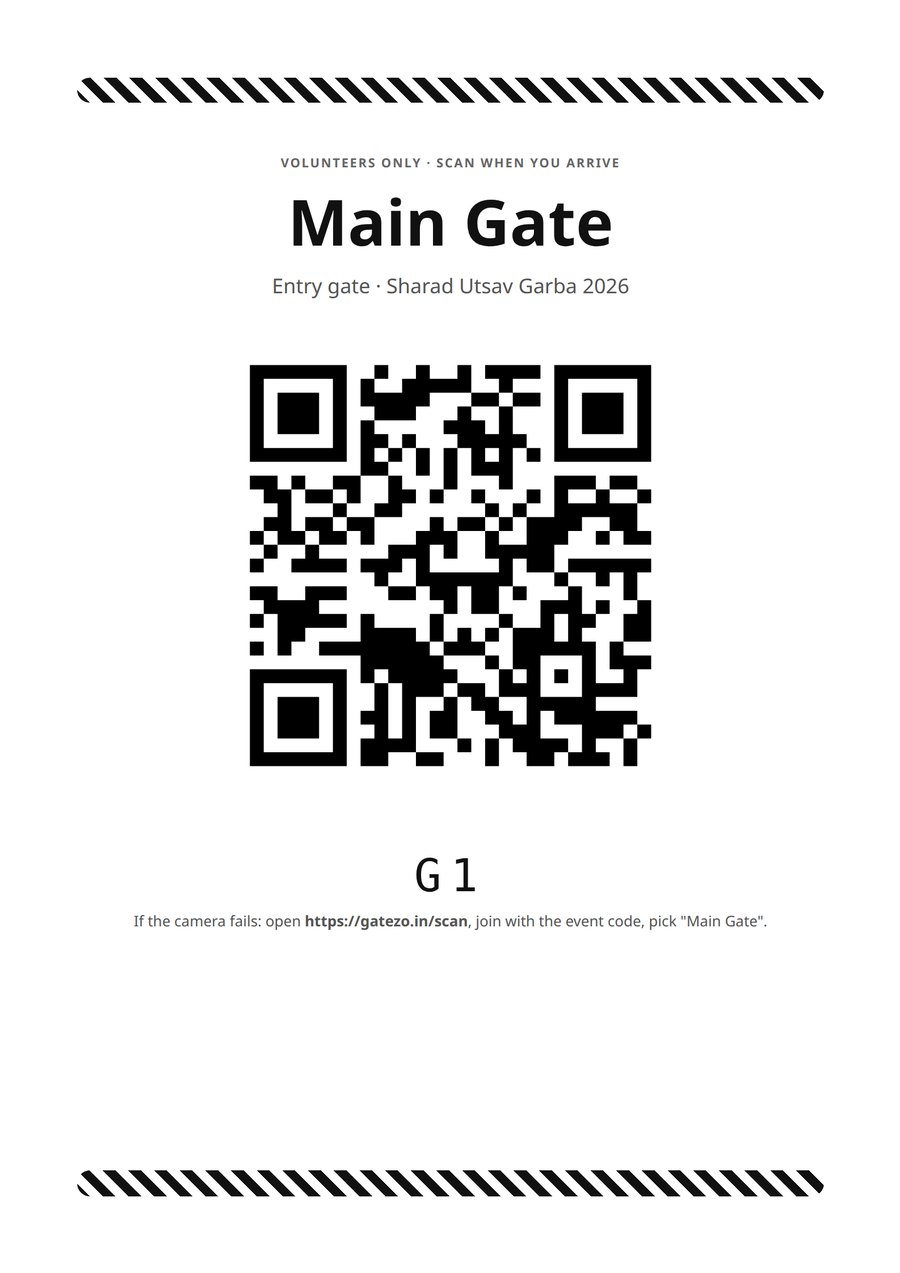
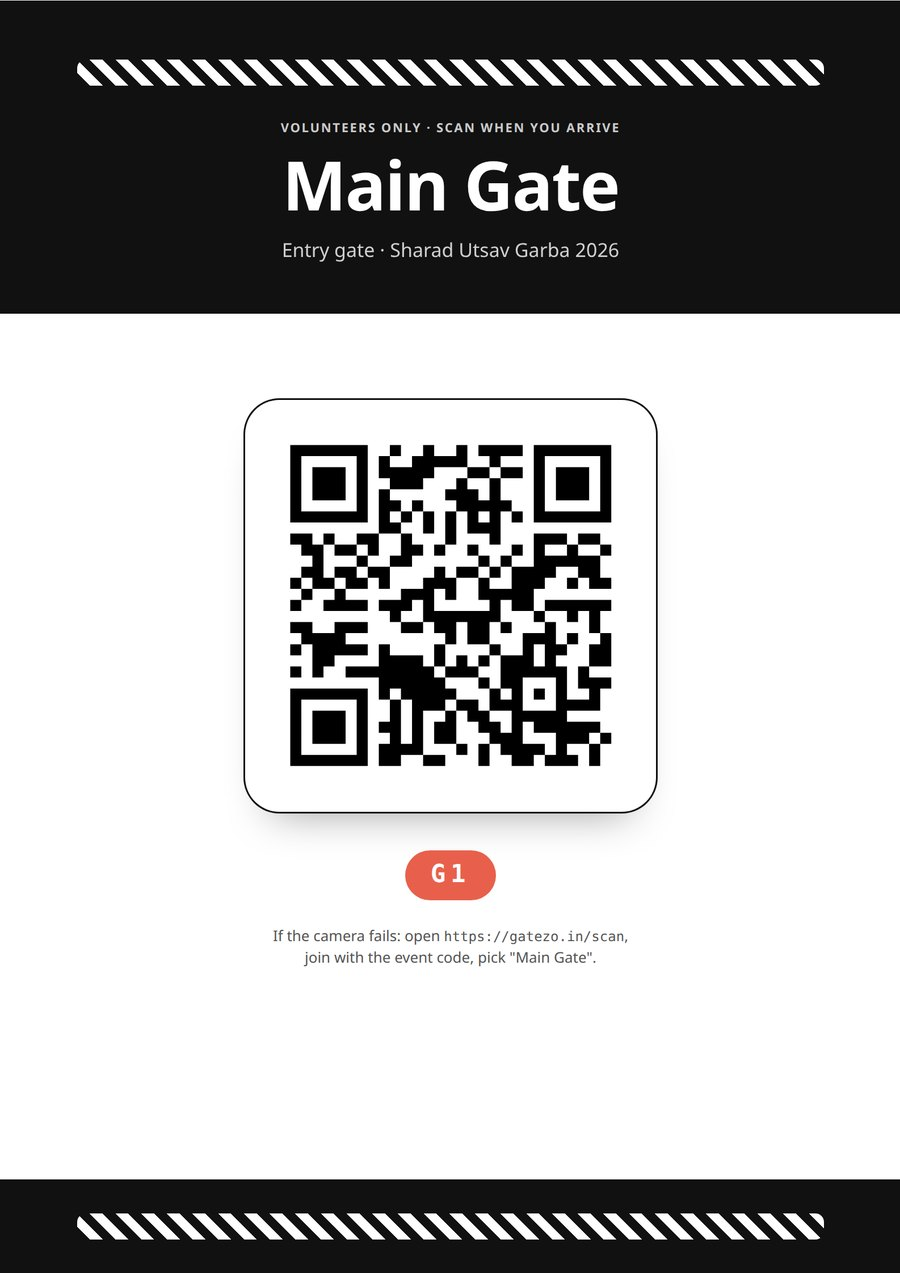
Print kit templates and a pass page that matches the hero
events.kit_style with three templates: classic (black on white), bold
(default: accent header and footer bands, rounded QR frames, logo) and
festival (full accent page with a white card and corner marks). Poster,
gate signs, stall and exit cards rebuilt around them. Settings → Look
picks the style. The phone pass page is now the landing hero's pass
card: accent header, QR, tinted name band, perforated foot, live mode
kept. Landing kit renders refreshed in Bold; render script counts gate
sheets by class.

diff --git a/resources/views/print/kit.blade.php b/resources/views/print/kit.blade.php
@@ -1,29 +1,145 @@
 @extends('layouts.print', ['title' => 'Print kit'])
+@php
+    $style = in_array($event->kit_style, ['classic', 'bold', 'festival'], true) ? $event->kit_style : 'bold';
+    $logo = $event->logo_url ? Illuminate\Support\Facades\Storage::url($event->logo_url) : null;
+    $when = $event->starts_at?->format('l, j F · g:i A');
+@endphp
+@push('head')
+<style>
+    /* ---- Kit templates. One body class switches the whole kit. Everything is CSS so a browser
+       print → PDF is the only pipeline; "Background graphics" must be on for bold/festival. ---- */
+    .kit .sheet { position: relative; overflow: hidden; }
+    .k-head { display: flex; flex-direction: column; align-items: center; text-align: center; }
+    .k-title { font-weight: 800; letter-spacing: -.02em; line-height: 1.02; }
+    .k-when { font-size: 17px; margin-top: 4mm; }
+    .k-qr { background: #fff; border-radius: 8mm; padding: 8mm; }
+    .k-qr svg { display: block; width: 100%; height: auto; }
+    .k-foot { margin-top: auto; display: flex; align-items: center; justify-content: space-between; gap: 6mm; }
+    .k-logo { max-height: 14mm; max-width: 50mm; object-fit: contain; }
+    .k-pill { display: inline-block; padding: 2.5mm 6mm; border-radius: 999px; font-weight: 700; font-size: 14px; }
+    .k-note { font-size: 13px; line-height: 1.4; }
+    .k-url { font-family: ui-monospace, Menlo, monospace; font-size: 12px; word-break: break-all; }
+    .k-vol { background: repeating-linear-gradient(45deg, #111 0 8px, #fff 8px 16px); height: 6mm; }
+    .k-corner { position: absolute; width: 10mm; height: 10mm; border: 2.5px solid currentColor; opacity: .5; }
+    .k-corner.tl { left: 10mm; top: 10mm; border-right: 0; border-bottom: 0; } .k-corner.tr { right: 10mm; top: 10mm; border-left: 0; border-bottom: 0; }
+    .k-corner.bl { left: 10mm; bottom: 10mm; border-right: 0; border-top: 0; } .k-corner.br { right: 10mm; bottom: 10mm; border-left: 0; border-top: 0; }
+
+    /* Classic: black on white, accent only as a thin rule. */
+    .kit-classic .k-band { border-top: 2mm solid var(--accent); border-bottom: 2mm solid var(--accent); padding: 8mm 0; }
+    .kit-classic .k-qr { border: 1.5px solid #111; }
+    .kit-classic .k-pill { border: 1.5px solid #111; }
+    .kit-classic .card { border: 1.5px dashed #999; }
+
+    /* Bold: accent header and footer bands, white body, rounded QR frame with a hairline. */
+    .kit-bold .sheet.poster, .kit-bold .sheet.gate { padding: 0; }
+    .kit-bold .k-band { background: var(--accent); color: #fff; padding: 14mm 18mm 12mm; }
+    .kit-bold .k-band.dark { background: #111; }
+    .kit-bold .k-band .kicker { color: rgba(255,255,255,.8); }
+    .kit-bold .k-body { padding: 12mm 18mm 0; display: flex; flex-direction: column; align-items: center; flex: 1; }
+    .kit-bold .k-qr { box-shadow: 0 0 0 1.5px #111, 0 6mm 10mm -6mm rgba(0,0,0,.4); }
+    .kit-bold .k-footband { background: #111; color: #fff; padding: 8mm 18mm; margin-top: auto; }
+    .kit-bold .k-pill { background: #111; color: #fff; }
+    .kit-bold .card { border: 0; box-shadow: 0 0 0 1.5px #ddd; border-top: 4mm solid var(--accent); }
+    .kit-bold .card.exit { border-top-color: #111; }
+
+    /* Festival: full accent page, white card floating on it, corner marks. */
+    .kit-festival .sheet.poster, .kit-festival .sheet.gate { background: var(--accent); padding: 16mm; color: #fff; }
+    .kit-festival .sheet.gate { background: #111; }
+    .kit-festival .k-card { background: #fff; color: #111; border-radius: 10mm; padding: 14mm 14mm 12mm; flex: 1; display: flex; flex-direction: column; align-items: center; text-align: center; }
+    .kit-festival .k-qr { box-shadow: 0 0 0 1.5px #111; }
+    .kit-festival .k-pill { background: var(--accent); color: #fff; }
+    .kit-festival .sheet.gate .k-pill { background: #111; }
+    .kit-festival .card { border: 0; background: #fff; box-shadow: 0 0 0 1.5px #ddd; }
+    .kit-festival .sheet.card-grid { background: var(--accent); padding: 12mm; }
+    .kit-festival .sheet.card-grid.exit { background: #111; }
+</style>
+@endpush
 @section('content')
+<div class="kit kit-{{ $style }}">
+
 {{-- 1. Registration poster (A4). Stick at the entrance, on the notice board, forward on WhatsApp. --}}
-<section class="sheet" style="align-items:center;text-align:center;justify-content:center">
-    <div class="stripe" style="width:100%"></div>
-    <div class="kicker" style="margin-top:12mm">Scan to get your entry pass</div>
-    <div class="title" style="font-size:44px">{{ $event->name }}</div>
-    @if ($event->starts_at)<div style="font-size:18px;color:#555">{{ $event->starts_at->format('l, j F · g:i A') }}@if($event->venue) · {{ $event->venue }}@endif</div>@endif
-    <div class="qr" style="width:120mm;margin:12mm 0">{!! $posterQr !!}</div>
-    <div style="font-size:16px;color:#555">Free entry · No app needed · Takes 20 seconds</div>
-    <div class="hint" style="margin-top:6mm">Or open: <b>{{ route('event.show', $event) }}</b></div>
-    <div style="margin-top:auto;width:100%;display:flex;align-items:center;justify-content:space-between"><img class="brand" src="{{ asset('brand/logo.png') }}" alt="Gatezo"><span class="hint">Free entry pass · no app needed</span></div>
-    <div class="stripe" style="width:100%;margin-top:4mm"></div>
+<section class="sheet poster">
+    @if ($style === 'festival')
+        <span class="k-corner tl"></span><span class="k-corner tr"></span><span class="k-corner bl"></span><span class="k-corner br"></span>
+        <div class="k-card">
+            @if ($logo)<img class="k-logo" src="{{ $logo }}" alt="">@endif
+            <div class="kicker" style="margin-top:6mm">Scan to get your entry pass</div>
+            <div class="k-title" style="font-size:46px;margin-top:3mm">{{ $event->name }}</div>
+            @if ($when || $event->venue)<div class="k-when" style="color:#555">{{ $when }}@if($when && $event->venue) · @endif{{ $event->venue }}</div>@endif
+            <div class="k-qr" style="width:110mm;margin:10mm 0 8mm">{!! $posterQr !!}</div>
+            <span class="k-pill">Free entry · No app · 20 seconds</span>
+            <div class="k-note hint" style="margin-top:6mm">Or open <span class="k-url">{{ route('event.show', $event) }}</span></div>
+            <div class="k-foot" style="width:100%;padding-top:8mm"><img class="brand" src="{{ asset('brand/logo.png') }}" alt="Gatezo"><span class="hint">Entry pass on your phone · show it at the gate</span></div>
+        </div>
+    @elseif ($style === 'bold')
+        <div class="k-band k-head">
+            @if ($logo)<img class="k-logo" src="{{ $logo }}" alt="" style="margin-bottom:5mm">@endif
+            <div class="kicker">Scan to get your entry pass</div>
+            <div class="k-title" style="font-size:44px;margin-top:3mm">{{ $event->name }}</div>
+            @if ($when || $event->venue)<div class="k-when" style="opacity:.9">{{ $when }}@if($when && $event->venue) · @endif{{ $event->venue }}</div>@endif
+        </div>
+        <div class="k-body">
+            <div class="k-qr" style="width:112mm;margin-top:6mm">{!! $posterQr !!}</div>
+            <span class="k-pill" style="margin-top:9mm">Free entry · No app · 20 seconds</span>
+            <div class="k-note hint" style="margin-top:5mm;text-align:center">Point your phone camera at the code.<br>Or open <span class="k-url">{{ route('event.show', $event) }}</span></div>
+        </div>
+        <div class="k-footband k-foot"><img class="brand" src="{{ asset('brand/logo.png') }}" alt="Gatezo" style="filter:brightness(0) invert(1);opacity:1"><span style="font-size:13px;opacity:.85">Entry pass on your phone · show it at the gate</span></div>
+    @else
+        <div class="k-band k-head">
+            @if ($logo)<img class="k-logo" src="{{ $logo }}" alt="" style="margin-bottom:5mm">@endif
+            <div class="kicker">Scan to get your entry pass</div>
+            <div class="k-title" style="font-size:44px;margin-top:3mm">{{ $event->name }}</div>
+            @if ($when || $event->venue)<div class="k-when" style="color:#555">{{ $when }}@if($when && $event->venue) · @endif{{ $event->venue }}</div>@endif
+        </div>
+        <div class="k-head" style="flex:1">
+            <div class="k-qr" style="width:112mm;margin-top:12mm">{!! $posterQr !!}</div>
+            <span class="k-pill" style="margin-top:9mm">Free entry · No app · 20 seconds</span>
+            <div class="k-note hint" style="margin-top:5mm">Or open <span class="k-url">{{ route('event.show', $event) }}</span></div>
+        </div>
+        <div class="k-foot"><img class="brand" src="{{ asset('brand/logo.png') }}" alt="Gatezo"><span class="hint">Entry pass on your phone · show it at the gate</span></div>
+    @endif
 </section>
 
 {{-- 2. One A4 sign per gate/zone. Striped = volunteer-facing, so nobody scans it expecting a pass. --}}
 @foreach ($event->gates as $gate)
-<section class="sheet" style="align-items:center;text-align:center;justify-content:center">
-    <div class="stripe volunteer" style="width:100%"></div>
-    <div class="kicker" style="margin-top:12mm">Volunteers only · scan when you arrive</div>
-    <div class="title" style="font-size:56px">{{ $gate->name }}</div>
-    <div style="font-size:18px;color:#555">{{ $gate->is_entry ? 'Entry gate' : 'Duty zone' }} · {{ $event->name }}</div>
-    <div class="qr" style="width:100mm;margin:12mm 0">{!! $gateQrs[$gate->id] !!}</div>
-    <div class="code" style="font-size:40px">{{ $gate->code }}</div>
-    <div class="hint">If the camera fails: open <b>{{ route('scan.join') }}</b>, join with the event code, pick "{{ $gate->name }}".</div>
-    <div class="stripe volunteer" style="width:100%;margin-top:auto"></div>
+<section class="sheet gate">
+    @if ($style === 'festival')
+        <span class="k-corner tl"></span><span class="k-corner tr"></span><span class="k-corner bl"></span><span class="k-corner br"></span>
+        <div class="k-card">
+            <div class="k-vol" style="width:100%;border-radius:3mm"></div>
+            <div class="kicker" style="margin-top:8mm">Volunteers only · scan when you arrive</div>
+            <div class="k-title" style="font-size:60px;margin-top:3mm">{{ $gate->name }}</div>
+            <div class="k-when" style="color:#555">{{ $gate->is_entry ? 'Entry gate' : 'Duty zone' }} · {{ $event->name }}</div>
+            <div class="k-qr" style="width:96mm;margin:10mm 0 6mm">{!! $gateQrs[$gate->id] !!}</div>
+            <span class="k-pill" style="font-family:ui-monospace,Menlo,monospace;letter-spacing:.2em;font-size:22px">{{ $gate->code }}</span>
+            <div class="k-note hint" style="margin-top:8mm">If the camera fails: open <span class="k-url">{{ route('scan.join') }}</span>, join with the event code, pick "{{ $gate->name }}".</div>
+            <div class="k-vol" style="width:100%;border-radius:3mm;margin-top:auto"></div>
+        </div>
+    @elseif ($style === 'bold')
+        <div class="k-band dark k-head">
+            <div class="k-vol" style="width:100%;border-radius:2mm;margin-bottom:8mm"></div>
+            <div class="kicker">Volunteers only · scan when you arrive</div>
+            <div class="k-title" style="font-size:60px;margin-top:3mm">{{ $gate->name }}</div>
+            <div class="k-when" style="opacity:.8">{{ $gate->is_entry ? 'Entry gate' : 'Duty zone' }} · {{ $event->name }}</div>
+        </div>
+        <div class="k-body">
+            <div class="k-qr" style="width:96mm;margin-top:8mm">{!! $gateQrs[$gate->id] !!}</div>
+            <span class="k-pill" style="margin-top:9mm;font-family:ui-monospace,Menlo,monospace;letter-spacing:.2em;font-size:22px;background:var(--accent)">{{ $gate->code }}</span>
+            <div class="k-note hint" style="margin-top:6mm;text-align:center">If the camera fails: open <span class="k-url">{{ route('scan.join') }}</span>,<br>join with the event code, pick "{{ $gate->name }}".</div>
+        </div>
+        <div class="k-footband"><div class="k-vol" style="border-radius:2mm"></div></div>
+    @else
+        <div class="k-vol"></div>
+        <div class="k-head" style="flex:1">
+            <div class="kicker" style="margin-top:12mm">Volunteers only · scan when you arrive</div>
+            <div class="k-title" style="font-size:60px;margin-top:3mm">{{ $gate->name }}</div>
+            <div class="k-when" style="color:#555">{{ $gate->is_entry ? 'Entry gate' : 'Duty zone' }} · {{ $event->name }}</div>
+            <div class="k-qr" style="width:96mm;margin:12mm 0 6mm">{!! $gateQrs[$gate->id] !!}</div>
+            <div class="code" style="font-size:40px">{{ $gate->code }}</div>
+            <div class="k-note hint" style="margin-top:6mm">If the camera fails: open <span class="k-url">{{ route('scan.join') }}</span>, join with the event code, pick "{{ $gate->name }}".</div>
+        </div>
+        <div class="k-vol" style="margin-top:auto"></div>
+    @endif
 </section>
 @endforeach
 
@@ -36,7 +152,7 @@
         <div class="title" style="font-size:24px">{{ $stall->name }}</div>
         @if ($stall->location)<div class="hint">{{ $stall->location }}</div>@endif
         <div class="qr" style="width:55mm;margin:4mm 0">{!! $stallQrs[$stall->id] !!}</div>
-        @if ($stall->offers)<div style="font-weight:600;font-size:13px">{{ \Illuminate\Support\Str::limit($stall->offers, 80) }}</div>@endif
+        @if ($stall->offers)<span class="k-pill" style="font-size:12px;padding:2mm 4mm">{{ \Illuminate\Support\Str::limit($stall->offers, 60) }}</span>@endif
         <div class="hint" style="margin-top:auto">{{ $event->name }}</div>
     </div>
     @endforeach
@@ -52,9 +168,9 @@
 @endforeach
 
 {{-- 4. Exit feedback cards, 2 per A4. --}}
-<section class="sheet card-grid" style="grid-template-columns:1fr">
+<section class="sheet card-grid exit" style="grid-template-columns:1fr">
     @for ($i = 0; $i < 2; $i++)
-    <div class="card" style="justify-content:center">
+    <div class="card exit" style="justify-content:center">
         <div class="kicker">On your way out</div>
         <div class="title" style="font-size:36px">How was it?</div>
         <div class="hint" style="font-size:15px">10 seconds. Anonymous. The organizers read every one.</div>
@@ -63,4 +179,6 @@
     </div>
     @endfor
 </section>
+
+</div>
 @endsection

diff --git a/resources/views/public/pass.blade.php b/resources/views/public/pass.blade.php
@@ -38,30 +38,31 @@
             @endif
         </div>
     @endif
-    <div class="rounded-2xl bg-white p-6 shadow-sm ring-1 ring-neutral-200">
-        <div class="text-center">
-            <div class="text-xs font-medium uppercase tracking-wider text-neutral-400">Entry pass</div>
-            <div class="mt-1 text-xl font-bold">{{ $attendee->name }}</div>
-            @if ($attendee->is_vip)
-                <span class="mt-2 inline-block rounded-full bg-amber-100 px-3 py-0.5 text-xs font-semibold text-amber-800">VIP</span>
-            @endif
+    {{-- The pass, styled like the one on the landing page: accent header, QR, name band, perforated foot. --}}
+    <div class="overflow-hidden rounded-2xl bg-white shadow-lg ring-1 ring-black/5">
+        <div class="flex items-center justify-between gap-3 px-5 py-3.5 text-white" style="background: var(--accent)">
+            <div class="min-w-0"><div class="truncate text-[15px] font-bold leading-tight">{{ $event->name }}</div>@if ($event->starts_at)<div class="text-[11px] opacity-85">{{ $event->starts_at->format('D j M · g:i A') }}</div>@endif</div>
+            <span class="shrink-0 rounded-full bg-white/20 px-2.5 py-1 text-[11px] font-bold">Entry pass</span>
         </div>
         @if ($event->strict_passes)
-            {{-- Live pass: a new QR every 30 s, so a screenshot is worthless within a minute. --}}
-            <div x-data="livePass(@js(route('pass.qr', $pass)), {{ $secondsLeft }})" x-init="start()">
-                <div class="relative mx-auto mt-5 w-full max-w-[280px] [&>svg]:h-auto [&>svg]:w-full" :class="stale && 'opacity-40'" x-ref="qr">{!! $qrSvg !!}</div>
+            <div x-data="livePass(@js(route('pass.qr', $pass)), {{ $secondsLeft }})" x-init="start()" class="px-7 pt-6">
+                <div class="mx-auto w-full max-w-[260px] [&>svg]:h-auto [&>svg]:w-full" :class="stale && 'opacity-40'" x-ref="qr">{!! $qrSvg !!}</div>
                 <div class="mt-3 flex items-center justify-center gap-2 text-xs font-medium" :class="stale ? 'text-red-600' : 'text-neutral-500'">
                     <span class="inline-block h-2 w-2 rounded-full" :class="stale ? 'bg-red-500' : 'bg-emerald-500'"></span>
                     <span x-text="stale ? 'Reconnect to refresh your pass' : 'Live pass · refreshes in ' + left + ' s'"></span>
                 </div>
             </div>
-            <div class="mt-4 text-center font-mono text-2xl tracking-[0.3em]">{{ $pass->code }}</div>
-            <p class="mt-1 text-center text-xs text-neutral-400">Keep this page open at the gate. Screenshots stop working after a minute. If the camera fails, tell the volunteer the code.</p>
         @else
-            <div class="mx-auto mt-5 w-full max-w-[280px] [&>svg]:h-auto [&>svg]:w-full">{!! $qrSvg !!}</div>
-            <div class="mt-4 text-center font-mono text-2xl tracking-[0.3em]">{{ $pass->code }}</div>
-            <p class="mt-1 text-center text-xs text-neutral-400">Show this at the gate. If the camera fails, tell the volunteer the code.</p>
+            <div class="px-7 pt-6"><div class="mx-auto w-full max-w-[260px] [&>svg]:h-auto [&>svg]:w-full">{!! $qrSvg !!}</div></div>
         @endif
+        <div class="mx-5 mt-4 flex items-center justify-between gap-3 rounded-xl px-4 py-3" style="background: color-mix(in srgb, var(--accent) 12%, white)">
+            <div class="min-w-0"><div class="truncate text-lg font-bold leading-tight">{{ $attendee->name }}</div><div class="font-mono text-xs tracking-[0.25em] text-neutral-500">{{ $pass->code }}</div></div>
+            @if ($attendee->is_vip)<span class="shrink-0 rounded-full bg-amber-400 px-2.5 py-1 text-[11px] font-bold text-amber-950">VIP</span>@endif
+        </div>
+        <div class="relative mt-4 border-t-2 border-dashed border-neutral-200 px-5 py-3.5 text-center text-xs text-neutral-500">
+            <span class="absolute -left-2 -top-2 h-4 w-4 rounded-full bg-neutral-50"></span><span class="absolute -right-2 -top-2 h-4 w-4 rounded-full bg-neutral-50"></span>
+            @if ($event->strict_passes)Keep this page open at the gate. Screenshots stop working after a minute.@else Show this at any gate.@endif If the camera fails, tell the volunteer the code.
+        </div>
     </div>
 
     <div class="mt-5 grid grid-cols-2 gap-3">

diff --git a/resources/views/landing.blade.php b/resources/views/landing.blade.php
@@ -159,7 +159,7 @@
     <div class="grid gap-10 lg:grid-cols-[.7fr_1.3fr] lg:items-center">
         <div class="rise">
             <h2 class="h2">This is the whole kit.</h2>
-            <p class="mt-5 max-w-md text-lg text-neutral-600">Four sheets. Black on white, so the cheapest shop printer is enough. Gatezo lays them out; you press print and grab the tape.</p>
+            <p class="mt-5 max-w-md text-lg text-neutral-600">Four sheets in your colour, three templates to pick from. Gatezo lays them out; you press print and grab the tape. The classic template is black on white for any printer.</p>
             <ul class="mt-6 max-w-md space-y-3 text-[15px] text-neutral-700">
                 <li class="flex gap-3"><span class="mt-1.5 h-2.5 w-2.5 shrink-0 rounded-full bg-[var(--coral)]"></span><span><b>Poster</b> at the entrance and on the notice board. Attendees scan it to get a pass.</span></li>
                 <li class="flex gap-3"><span class="mt-1.5 h-2.5 w-2.5 shrink-0 rounded-full" style="background:repeating-linear-gradient(45deg,var(--ink) 0 2px,#fff 2px 4px)"></span><span><b>Gate sign</b>, one per gate or zone. Striped, so nobody scans it expecting a pass. Volunteers scan it to go on duty.</span></li>
@@ -232,7 +232,7 @@
     <h2 class="h2 rise max-w-3xl">Four things happen. You do one of them.</h2>
     <div class="stack mt-10">
         <article class="step" style="--i:0">
-            <div><div class="n">1</div><h3 class="mt-3 text-2xl font-extrabold sm:text-3xl">You print the kit and stick it on the gate.</h3><p class="mt-3 max-w-sm text-neutral-600">Poster, gate signs, stall cards, exit cards. Black on white, any printer, four sheets for a small event.</p></div>
+            <div><div class="n">1</div><h3 class="mt-3 text-2xl font-extrabold sm:text-3xl">You print the kit and stick it on the gate.</h3><p class="mt-3 max-w-sm text-neutral-600">Poster, gate signs, stall cards, exit cards. Your colour, your logo, any printer; four sheets for a small event.</p></div>
             <div class="stage"><div class="mini-sheet"><div class="stripe"></div><div class="mt-2 text-xs font-bold">Scan to get your entry pass</div><div class="mt-2">{!! $qr['poster'] !!}</div><div class="mt-1 text-[10px] text-neutral-500">Free entry · takes 20 seconds</div></div></div>
         </article>
         <article class="step" style="--i:1">

diff --git a/app/Models/Event.php b/app/Models/Event.php
@@ -13,7 +13,7 @@ use Illuminate\Support\Facades\URL;
 use Illuminate\Support\Str;
 
 #[Fillable([
-    'slug', 'name', 'type', 'description', 'venue', 'accent_hex', 'logo_url',
+    'slug', 'name', 'type', 'description', 'venue', 'accent_hex', 'logo_url', 'kit_style',
     'capacity', 'starts_at', 'ends_at', 'allow_self_register', 'allow_reentry', 'strict_passes',
     'roster_only', 'require_volunteer_approval',
 ])]
@@ -21,6 +21,13 @@ use Illuminate\Support\Str;
 class Event extends Model
 {
     use HasFactory;
+
+    /** Print kit templates. Classic is black on white for any printer; the others want colour. */
+    public const KIT_STYLES = [
+        'classic' => 'Classic · black on white, prints anywhere',
+        'bold' => 'Bold · accent header bands, rounded QR frames',
+        'festival' => 'Festival · full colour background',
+    ];
 
     public const TYPES = [
         'community' => 'Community gathering',
@@ -80,7 +87,7 @@ class Event extends Model
     {
         $source = $this->fresh(); // pick up DB defaults the in-memory model may not have
         $copy = new self($source->only([
-            'type', 'description', 'venue', 'accent_hex', 'logo_url', 'capacity', 'allow_self_register', 'allow_reentry', 'strict_passes',
+            'type', 'description', 'venue', 'accent_hex', 'logo_url', 'kit_style', 'capacity', 'allow_self_register', 'allow_reentry', 'strict_passes',
         ]));
         $copy->name = $name;
         $copy->starts_at = $startsAt;

diff --git a/resources/landing-kit/render.py b/resources/landing-kit/render.py
@@ -29,7 +29,7 @@ js("document.querySelector('.toolbar')?.remove(); document.body.style.background
 # With APP_FORCE_URL the logo points at the public domain; pull it from the local server instead.
 js(f"document.querySelectorAll('img').forEach(i => i.src = i.src.replace(/^https?:\\/\\/[^/]+/, '{BASE}'))"); time.sleep(1.5)
 # poster = sheet 0, first gate sign = sheet 1, first stall grid = after the gates, exit cards = last
-n = js("document.querySelectorAll('.sheet').length"); gates = js("document.querySelectorAll('.sheet .stripe.volunteer').length / 2")
+n = js("document.querySelectorAll('.sheet').length"); gates = js("document.querySelectorAll('.sheet.gate').length")
 picks = {'poster': 0, 'gate': 1, 'stalls': 1 + int(gates), 'exit': n - 1}
 for name, idx in picks.items():
     x, y, w, h = js(f"(() => {{ const b = document.querySelectorAll('.sheet')[{idx}].getBoundingClientRect(); return [b.left + scrollX, b.top + scrollY, b.width, b.height]; }})()")

diff --git a/app/Filament/Pages/Tenancy/EditEventProfile.php b/app/Filament/Pages/Tenancy/EditEventProfile.php
@@ -36,6 +36,8 @@ class EditEventProfile extends EditTenantProfile
             Section::make('Look')->columns(2)->components([
                 ColorPicker::make('accent_hex')->label('Accent colour'),
                 FileUpload::make('logo_url')->label('Logo')->image()->directory('logos')->visibility('public'),
+                Select::make('kit_style')->label('Print kit style')->options(Event::KIT_STYLES)->default('bold')->required()->native(false)
+                    ->helperText('Applies to the poster, gate signs, stall and exit cards. Classic for a black-and-white shop printer; Bold and Festival look best in colour.')->columnSpanFull(),
             ]),
             Section::make('Behaviour')->columns(2)->components([
                 Toggle::make('allow_self_register')->label('Walk-up registration via poster QR'),

diff --git a/database/migrations/2026_09_21_100000_add_kit_style_to_events.php b/database/migrations/2026_09_21_100000_add_kit_style_to_events.php
@@ -1,0 +1,21 @@
+<?php
+
+use Illuminate\Database\Migrations\Migration;
+use Illuminate\Database\Schema\Blueprint;
+use Illuminate\Support\Facades\Schema;
+
+return new class extends Migration
+{
+    public function up(): void
+    {
+        Schema::table('events', function (Blueprint $table) {
+            // Print kit look: classic (black on white, any printer), bold (accent bands), festival (full colour).
+            $table->string('kit_style', 12)->default('bold')->after('logo_url');
+        });
+    }
+
+    public function down(): void
+    {
+        Schema::table('events', fn (Blueprint $table) => $table->dropColumn('kit_style'));
+    }
+};

diff --git a/resources/views/filament/pages/print-centre.blade.php b/resources/views/filament/pages/print-centre.blade.php
@@ -1,6 +1,6 @@
 <x-filament-panels::page>
     <div class="grid gap-6 md:grid-cols-2">
-        <x-filament::section heading="Print kit" description="Every QR you stick on something. A4, black on white, any printer.">
+        <x-filament::section heading="Print kit" description="Every QR you stick on something. A4, in your accent colour. Pick the template under Settings → Look.">
             <ul class="mb-4 list-disc space-y-1 pl-5 text-sm text-gray-600 dark:text-gray-300">
                 <li>1 registration poster (scan → get pass)</li>
                 <li>{{ $gateCount }} gate / zone signs (volunteers scan → on duty)</li>

diff --git a/resources/views/layouts/print.blade.php b/resources/views/layouts/print.blade.php
@@ -39,6 +39,7 @@
             @page { size: A4; margin: 0; }
         }
     </style>
+    @stack('head')
 </head>
 <body>
     <div class="toolbar">

diff --git a/README.md b/README.md
@@ -48,6 +48,14 @@ or yesterday if you run it before the evening, so live widgets always have data.
 
 Test: `php artisan test`. Format: `vendor/bin/pint`.
 
+## Print kit templates
+
+`events.kit_style` (Settings → Look): `classic` (black on white, any printer), `bold` (default: accent header
+and footer bands, rounded QR frames) or `festival` (full accent background with a white card). All CSS in
+`resources/views/print/kit.blade.php`; the browser's Print → PDF is the only pipeline, with "Background
+graphics" on for the colour templates. The event's accent colour and logo flow into every sheet, and the phone
+pass page uses the same pass-card look as the landing hero.
+
 ## Volunteer access control
 
 Joining needs the event's 6-digit code (30 attempts/min per IP; 10 wrong codes → 15-minute block, every
